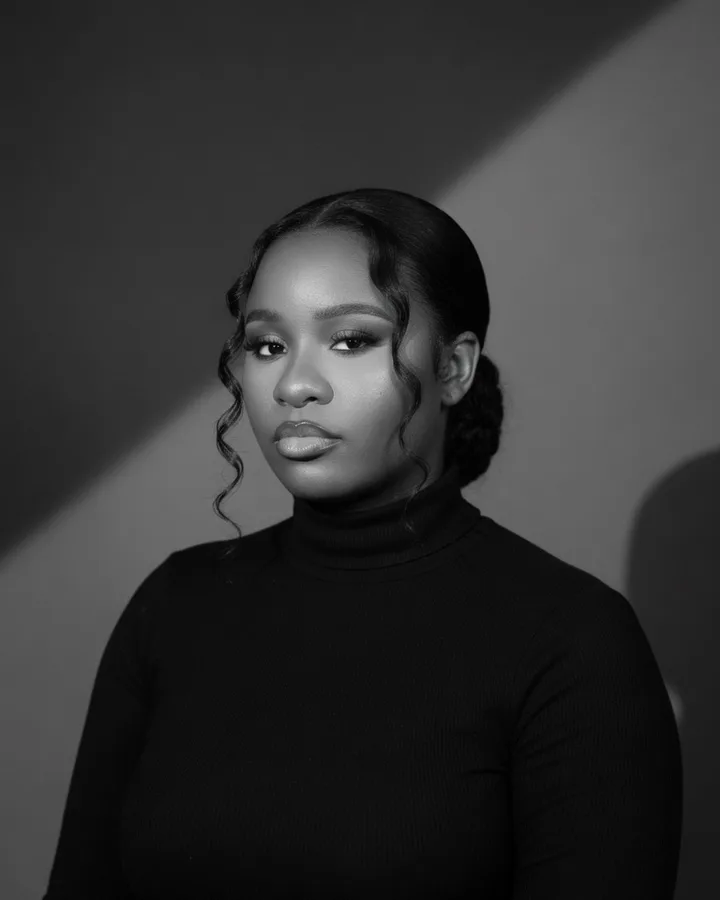
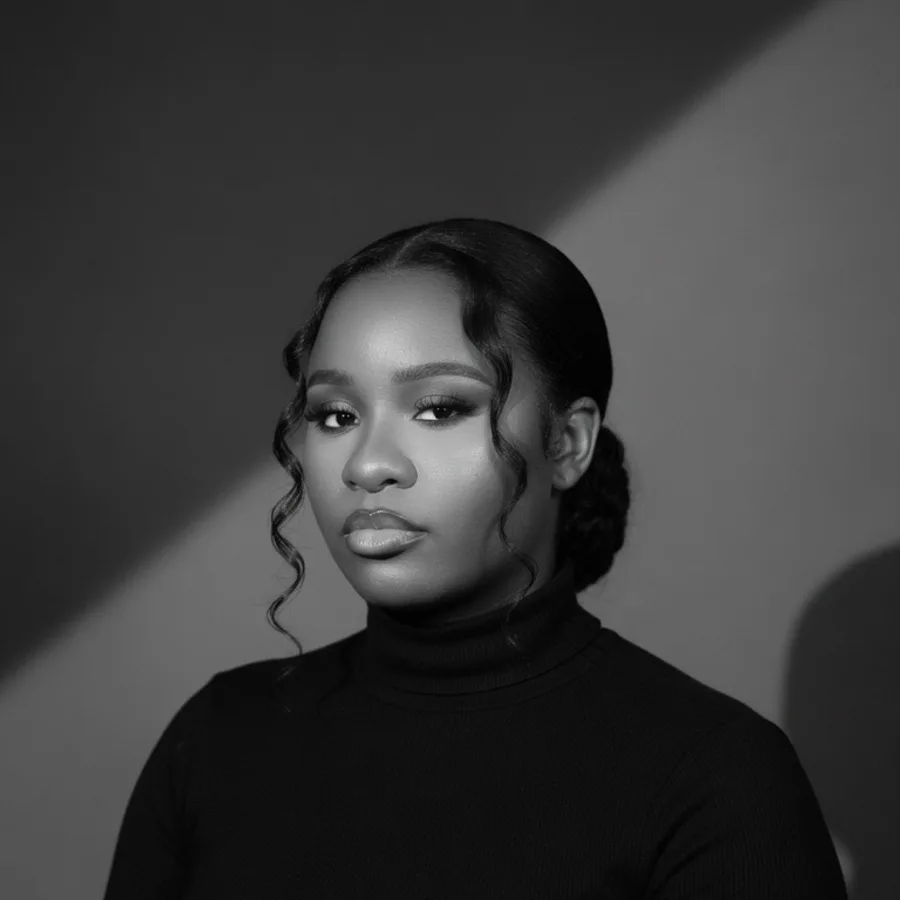
Redesign the About page around the team's photographs
Hero: the headline beside the four portraits in a staggered grid with
rounded, uneven corners and a name on each; each links to its profile.
The page's facts sit across the banner's lower edge.

Team: each person gets a card with a square portrait carrying their role
(and a Co-founder tag), their story beside it, and a pill row to jump
between profiles. The portrait stays in view while a longer bio is read.
Cards clip with overflow-clip so that stickiness works.

Portraits are replaced with the new black-and-white set, cropped square
(Olufunlola's to match), and Management consulting is added to Oriyomi's
background and expertise.

Changed region(s): [[0.0, 0.1244, 1.0, 1.0]]

diff --git a/src/app/(site)/about/page.tsx b/src/app/(site)/about/page.tsx
@@ -13,7 +13,6 @@ import {
   Users,
   type LucideIcon,
 } from "lucide-react";
-import { PageBanner } from "@/components/page-banner";
 import { topStates, totalCount } from "@/lib/schools";
 import { TEAM, type Person } from "@/lib/team";
 import { SITE_URL, absoluteUrl } from "@/lib/site";
@@ -46,8 +45,6 @@ const ADVOCACY = [
 
 export default async function AboutPage() {
   const [total, states] = await Promise.all([totalCount(), topStates(40)]);
-  const founders = TEAM.filter((p) => p.group === "co-founder");
-  const leadership = TEAM.filter((p) => p.group === "leadership");
 
   /*
    * The team and the organisation, described to search engines. Every field is
@@ -81,33 +78,76 @@ export default async function AboutPage() {
     <>
       <script type="application/ld+json" dangerouslySetInnerHTML={{ __html: JSON.stringify(jsonLd) }} />
 
-      <PageBanner
-        title={
-          <>
-            Making education easier
-            <br className="hidden sm:block" /> to see, choose and improve
-          </>
-        }
-        standfirst="Eduplana began in 2017 as a civic tech organisation that turned education data into public pressure for change. Today we are building a platform for the people who shape a child's education: parents, schools, teachers and the organisations that support them."
-      >
-        <a
-          href="#team"
-          className="inline-flex items-center gap-2 rounded-full bg-white px-6 py-3.5 text-sm font-bold text-brand-900 transition-colors hover:bg-brand-100"
-        >
-          Meet the team
-          <ArrowRight size={16} strokeWidth={2.5} aria-hidden />
-        </a>
-        <Link
-          href="/schools"
-          className="inline-flex items-center rounded-full border border-white/25 px-6 py-3.5 text-sm font-semibold text-white transition-colors hover:bg-white/10"
-        >
-          Explore Schoolsbase
-        </Link>
-      </PageBanner>
+      {/* Hero: the headline, and the four people behind it. */}
+      <section className="relative isolate overflow-hidden banner-brand banner-grid">
+        <div
+          aria-hidden
+          className="absolute -right-32 -top-24 -z-10 size-[560px] rounded-full bg-brand-400/25 blur-3xl"
+        />
+        <div className="mx-auto grid max-w-6xl items-center gap-12 px-4 pb-28 pt-14 sm:px-6 sm:pb-32 sm:pt-20 lg:grid-cols-[minmax(0,1.05fr)_minmax(0,0.95fr)] lg:gap-14">
+          <div>
+            <h1 className="font-display tracking-display text-[2.1rem] leading-[1.08] text-white sm:text-[3.15rem]">
+              Making education easier to see, choose and improve
+            </h1>
+            <p className="mt-5 max-w-xl text-[17px] leading-relaxed text-white/75">
+              Eduplana began in 2017 as a civic tech organisation that turned education data into
+              public pressure for change. Today we are building a platform for the people who shape
+              a child&rsquo;s education: parents, schools, teachers and the organisations that
+              support them.
+            </p>
+            <div className="mt-9 flex flex-wrap gap-3">
+              <a
+                href="#team"
+                className="inline-flex items-center gap-2 rounded-full bg-white px-6 py-3.5 text-sm font-bold text-brand-900 transition-colors hover:bg-brand-100"
+              >
+                Meet the team
+                <ArrowRight size={16} strokeWidth={2.5} aria-hidden />
+              </a>
+              <Link
+                href="/schools"
+                className="inline-flex items-center rounded-full border border-white/25 px-6 py-3.5 text-sm font-semibold text-white transition-colors hover:bg-white/10"
+              >
+                Explore Schoolsbase
+              </Link>
+            </div>
+          </div>
+
+          {/* Staggered, so the four faces read as a group rather than a grid. */}
+          <ul className="mx-auto grid w-full max-w-md grid-cols-2 gap-3 sm:gap-4 lg:max-w-none">
+            {TEAM.map((p, i) => (
+              <li key={p.slug} className={i % 2 === 1 ? "mt-8 sm:mt-12" : ""}>
+                <a
+                  href={`#${p.slug}`}
+                  className={`group relative block aspect-square overflow-hidden bg-brand-900 ring-1 ring-white/15 ${
+                    i === 0 ? "rounded-[2.25rem] rounded-tl-[3.5rem]" : i === 3 ? "rounded-[2.25rem] rounded-br-[3.5rem]" : "rounded-[2.25rem]"
+                  }`}
+                >
+                  <Image
+                    src={p.photo}
+                    alt={`Portrait of ${p.name}`}
+                    fill
+                    unoptimized
+                    priority
+                    sizes="(max-width: 1024px) 220px, 280px"
+                    className="object-cover transition-transform duration-700 group-hover:scale-[1.05]"
+                  />
+                  <span
+                    aria-hidden
+                    className="absolute inset-0 bg-gradient-to-t from-brand-950/80 via-transparent to-transparent"
+                  />
+                  <span className="absolute inset-x-3 bottom-3 truncate rounded-full bg-white/15 px-3 py-1.5 text-center text-[12px] font-semibold text-white ring-1 ring-white/20 backdrop-blur-md">
+                    {p.name}
+                  </span>
+                </a>
+              </li>
+            ))}
+          </ul>
+        </div>
+      </section>
 
       {/* The numbers sit across the banner's lower edge, so the page opens on facts. */}
-      <div className="relative z-10 mx-auto -mt-9 max-w-6xl px-4 sm:-mt-11 sm:px-6">
-        <dl className="grid grid-cols-2 overflow-hidden rounded-2xl border border-ink-100 bg-white shadow-lift lg:grid-cols-4">
+      <div className="relative z-10 mx-auto -mt-12 max-w-6xl px-4 sm:-mt-14 sm:px-6">
+        <dl className="grid grid-cols-2 overflow-hidden rounded-3xl border border-ink-100 bg-white shadow-lift lg:grid-cols-4">
           {[
             { label: "Founded", value: "2017" },
             { label: "Private schools on Schoolsbase", value: total.toLocaleString() },
@@ -116,12 +156,12 @@ export default async function AboutPage() {
           ].map((stat, i) => (
             <div
               key={stat.label}
-              className={`px-6 py-5 ${i % 2 ? "border-l border-ink-100" : ""} ${
+              className={`px-6 py-6 ${i % 2 ? "border-l border-ink-100" : ""} ${
                 i >= 2 ? "border-t border-ink-100 lg:border-t-0" : ""
               } ${i === 2 ? "lg:border-l" : ""}`}
             >
               <dt className="text-[13px] font-medium text-ink-500">{stat.label}</dt>
-              <dd className="mt-1 font-display text-[1.6rem] leading-tight text-ink-950">{stat.value}</dd>
+              <dd className="mt-1 font-display text-[1.7rem] leading-tight text-ink-950">{stat.value}</dd>
             </div>
           ))}
         </dl>
@@ -138,11 +178,11 @@ export default async function AboutPage() {
               {CONNECTS.map(({ icon: Icon, label }) => (
                 <li
                   key={label}
-                  className="flex items-center gap-3 rounded-xl border border-ink-100 bg-white px-4 py-3 text-sm font-semibold text-ink-800"
+                  className="flex items-center gap-3 rounded-2xl border border-ink-100 bg-white px-4 py-3.5 text-sm font-semibold text-ink-800 transition-colors hover:border-brand-200 hover:bg-brand-50/50"
                 >
                   <span
                     aria-hidden
-                    className="grid size-9 shrink-0 place-items-center rounded-lg bg-brand-50 text-brand-700"
+                    className="grid size-9 shrink-0 place-items-center rounded-xl bg-brand-50 text-brand-700"
                   >
                     <Icon size={17} strokeWidth={2.2} />
                   </span>
@@ -235,35 +275,44 @@ export default async function AboutPage() {
       </section>
 
       {/* The team */}
-      <section id="team" className="scroll-mt-24 mx-auto max-w-6xl px-4 pt-16 sm:px-6 sm:pt-24">
-        <div className="max-w-2xl">
-          <h2 className="font-display text-[1.75rem] leading-tight text-ink-950 sm:text-[2.25rem]">
-            The people behind Eduplana
-          </h2>
-          <p className="mt-3 text-[17px] leading-relaxed text-ink-600">
-            Advocacy, engineering, strategy and communication: the four people leading the work.
-          </p>
+      <section id="team" className="scroll-mt-24 mx-auto max-w-6xl px-4 py-16 sm:px-6 sm:py-24">
+        <div className="flex flex-wrap items-end justify-between gap-6">
+          <div className="max-w-2xl">
+            <h2 className="font-display text-[1.75rem] leading-tight text-ink-950 sm:text-[2.25rem]">
+              The people behind Eduplana
+            </h2>
+            <p className="mt-3 text-[17px] leading-relaxed text-ink-600">
+              Advocacy, engineering, strategy and communication: the four people leading the work.
+            </p>
+          </div>
+          <nav aria-label="Jump to a profile">
+            <ul className="flex flex-wrap gap-2">
+              {TEAM.map((p) => (
+                <li key={p.slug}>
+                  <a
+                    href={`#${p.slug}`}
+                    className="inline-flex items-center gap-2 rounded-full border border-ink-200 bg-white py-1.5 pl-1.5 pr-4 text-sm font-semibold text-ink-800 transition-colors hover:border-brand-300 hover:bg-brand-50"
+                  >
+                    <span className="relative size-8 overflow-hidden rounded-full bg-ink-100">
+                      <Image src={p.photo} alt="" fill unoptimized sizes="32px" className="object-cover" />
+                    </span>
+                    {p.name.split(" ")[0]}
+                  </a>
+                </li>
+              ))}
+            </ul>
+          </nav>
         </div>
-        <div className="mt-14 space-y-20 sm:space-y-28">
-          {founders.map((p, i) => (
-            <Profile key={p.slug} person={p} flip={i % 2 === 1} />
+
+        <div className="mt-12 space-y-6 sm:space-y-8">
+          {TEAM.map((p) => (
+            <Profile key={p.slug} person={p} />
           ))}
         </div>
       </section>
 
-      <section className="mt-20 border-t border-ink-100 bg-ink-50/70 sm:mt-28">
-        <div className="mx-auto max-w-6xl px-4 py-16 sm:px-6 sm:py-24">
-          <h2 className="font-display text-[1.5rem] leading-tight text-ink-950 sm:text-[1.9rem]">Leadership</h2>
-          <div className="mt-12 space-y-20 sm:space-y-28">
-            {leadership.map((p, i) => (
-              <Profile key={p.slug} person={p} flip={i % 2 === 0} />
-            ))}
-          </div>
-        </div>
-      </section>
-
       {/* Contact */}
-      <section className="mx-auto max-w-6xl px-4 py-16 sm:px-6 sm:py-24">
+      <section className="mx-auto max-w-6xl px-4 pb-16 sm:px-6 sm:pb-24">
         <div className="relative isolate overflow-hidden rounded-3xl banner-brand banner-grid">
           <div className="relative grid gap-8 p-8 sm:p-12 lg:grid-cols-[1.4fr_1fr] lg:items-center">
             <div>
@@ -298,45 +347,59 @@ export default async function AboutPage() {
 }
 
 /**
- * One person: a portrait beside their story. The portrait stays in view while
- * the longer bios scroll past it, and the profile has its own address so it can
- * be linked to directly. The first two paragraphs are always visible; the rest
- * open with a native <details>, which works without JavaScript and is readable
- * to search engines either way.
+ * One person, on a card of their own: the portrait on the left with their role
+ * across it, the story on the right. The portrait stays in view while a longer
+ * bio scrolls past it, and the profile has its own address so it can be linked
+ * to directly. The first two paragraphs are always visible; the rest open with
+ * a native <details>, which works without JavaScript and is readable to search
+ * engines either way.
+ *
+ * The card clips with overflow-clip, not overflow-hidden: hidden makes it a
+ * scroll container, and the portrait's `sticky` would then stick to the card
+ * instead of the page.
  */
-function Profile({ person, flip }: { person: Person; flip: boolean }) {
+function Profile({ person }: { person: Person }) {
   const shown = person.paragraphs.slice(0, 2);
   const more = person.paragraphs.slice(2);
 
   return (
     <article
       id={person.slug}
-      className="scroll-mt-28 grid items-start gap-8 lg:grid-cols-[minmax(0,5fr)_minmax(0,7fr)] lg:gap-16"
+      className="scroll-mt-28 overflow-clip rounded-[2rem] border border-ink-100 bg-white shadow-card lg:grid lg:grid-cols-[minmax(0,26rem)_minmax(0,1fr)]"
     >
-      <div className={`mx-auto w-full max-w-sm lg:max-w-none lg:sticky lg:top-28 ${flip ? "lg:order-2" : ""}`}>
-        <div className="relative">
-          <span aria-hidden className="absolute -inset-3 -z-10 rounded-[2rem] bg-brand-50 sm:-inset-4" />
-          <div className="relative aspect-[4/5] overflow-hidden rounded-3xl bg-ink-100 shadow-card">
-            {/* Already sized and compressed, so the optimizer has nothing to add. */}
-            <Image
-              src={person.photo}
-              alt={`Portrait of ${person.name}`}
-              fill
-              unoptimized
-              sizes="(max-width: 1024px) 384px, 460px"
-              className="object-cover"
-            />
-          </div>
+      <div className="p-3 sm:p-4 lg:p-5">
+        <div className="relative aspect-square overflow-hidden rounded-[1.5rem] bg-brand-950 lg:sticky lg:top-[88px]">
+          {/* Already sized and compressed, so the optimizer has nothing to add. */}
+          <Image
+            src={person.photo}
+            alt={`Portrait of ${person.name}`}
+            fill
+            unoptimized
+            sizes="(max-width: 1024px) 90vw, 416px"
+            className="object-cover"
+          />
+          {/* A cool blue wash at the foot: the role needs a surface to sit on. */}
+          <div
+            aria-hidden
+            className="absolute inset-x-0 bottom-0 h-1/2 bg-gradient-to-t from-brand-950/85 to-transparent"
+          />
+          {person.group === "co-founder" ? (
+            <span className="absolute left-4 top-4 rounded-full bg-white px-3 py-1 text-[12px] font-bold text-brand-800 shadow-sm">
+              Co-founder
+            </span>
+          ) : null}
+          <p className="absolute inset-x-4 bottom-4 text-[15px] font-semibold leading-snug text-white">
+            {person.role}
+          </p>
         </div>
       </div>
 
-      <div className={`min-w-0 ${flip ? "lg:order-1" : ""}`}>
-        <h3 className="font-display text-[2rem] leading-[1.1] tracking-display text-ink-950 sm:text-[2.6rem]">
+      <div className="min-w-0 p-6 sm:p-8 lg:py-10 lg:pl-4 lg:pr-12">
+        <h3 className="font-display text-[2rem] leading-[1.1] tracking-display text-ink-950 sm:text-[2.5rem]">
           {person.name}
         </h3>
-        <p className="mt-2 text-[17px] font-semibold text-brand-700">{person.role}</p>
 
-        <p className="mt-6 text-[1.15rem] leading-[1.7] text-ink-800">{shown[0]}</p>
+        <p className="mt-5 text-[1.12rem] leading-[1.7] text-ink-800">{shown[0]}</p>
         {shown.slice(1).map((para) => (
           <p key={para} className="mt-4 text-[16px] leading-[1.8] text-ink-600">
             {para}
@@ -345,7 +408,7 @@ function Profile({ person, flip }: { person: Person; flip: boolean }) {
 
         {more.length > 0 ? (
           <details className="group mt-4">
-            <summary className="inline-flex cursor-pointer list-none items-center gap-1.5 rounded-full text-sm font-bold text-brand-700 hover:text-brand-900 [&::-webkit-details-marker]:hidden">
+            <summary className="inline-flex cursor-pointer list-none items-center gap-1.5 rounded-full bg-brand-50 px-4 py-2 text-sm font-bold text-brand-800 transition-colors hover:bg-brand-100 [&::-webkit-details-marker]:hidden">
               <span className="group-open:hidden">Read the full profile</span>
               <span className="hidden group-open:inline">Show less</span>
               <ChevronDown
@@ -355,7 +418,7 @@ function Profile({ person, flip }: { person: Person; flip: boolean }) {
                 className="transition-transform group-open:rotate-180"
               />
             </summary>
-            <div className="mt-4 space-y-4">
+            <div className="mt-5 space-y-4">
               {more.map((para) => (
                 <p key={para} className="text-[16px] leading-[1.8] text-ink-600">
                   {para}
@@ -365,20 +428,22 @@ function Profile({ person, flip }: { person: Person; flip: boolean }) {
           </details>
         ) : null}
 
-        <ul className="mt-7 flex flex-wrap gap-2">
-          {person.expertise.map((e) => (
-            <li key={e} className="rounded-full bg-brand-50 px-3 py-1 text-[13px] font-semibold text-brand-800">
-              {e}
-            </li>
-          ))}
-        </ul>
+        <div className="mt-8 border-t border-ink-100 pt-6">
+          <ul className="flex flex-wrap gap-2">
+            {person.expertise.map((e) => (
+              <li key={e} className="rounded-full bg-brand-50 px-3 py-1 text-[13px] font-semibold text-brand-800">
+                {e}
+              </li>
+            ))}
+          </ul>
 
-        {person.workedWith?.length ? (
-          <p className="mt-5 text-sm leading-relaxed text-ink-500">
-            <span className="font-semibold text-ink-700">Has worked with </span>
-            {person.workedWith.join(", ")}.
-          </p>
-        ) : null}
+          {person.workedWith?.length ? (
+            <p className="mt-5 text-sm leading-relaxed text-ink-500">
+              <span className="font-semibold text-ink-700">Has worked with </span>
+              {person.workedWith.join(", ")}.
+            </p>
+          ) : null}
+        </div>
       </div>
     </article>
   );

diff --git a/src/lib/team.ts b/src/lib/team.ts
@@ -2,8 +2,8 @@
  * The people on the About page.
  *
  * Kept as data, apart from the layout, so a bio or a photograph can be changed
- * without touching the page. Portraits are 720×900 WebP in `public/team/`, cropped
- * to one shape so the four sit together.
+ * without touching the page. Portraits are 900×900 WebP in `public/team/`, cropped
+ * square so the four sit together.
  *
  * Bios are written from the ones each person supplied: tightened, put in the
  * third person throughout, and with nothing added. Pronouns appear only where
@@ -35,12 +35,12 @@ export const TEAM: Person[] = [
       "Co-founded Eduplana in 2017 as a civic tech organisation promoting accountability and transparency in Nigeria's education sector, and leads the team.",
     paragraphs: [
       "Oriyomi Ogunwale co-founded Eduplana in 2017, a civic tech organisation that promotes accountability and transparency in the education sector, and leads the team today.",
-      "Oriyomi has led Eduplana on civic projects that give citizens access to education governance and help them understand how public education works, through information gathering, civic action and campaigning for change. A champion for accountability and transparency in Nigeria's education sector, Oriyomi's background is in data processing and management, behavioural science, and project development and management.",
+      "Oriyomi has led Eduplana on civic projects that give citizens access to education governance and help them understand how public education works, through information gathering, civic action and campaigning for change. A champion for accountability and transparency in Nigeria's education sector, Oriyomi's background is in data processing and management, behavioural science, management consulting, and project development and management.",
       "Those projects include Education Financing Advocacy, Public School Needs Assessment, Education Policy Reform, Teachers' Welfare, Universities' Autonomy and States Education Funding. The major advocacy campaigns include #EducationFund, #SaveLautech, #StudentInjustice and #OutofSchoolChildren. Eduplana's education infographics have been published in newspapers, and the team partners with radio stations.",
       "Oriyomi is a member of the Open Data Team and Open Alliance in Nigeria, which work to improve openness and accountability in government.",
       "Oriyomi is a graduate of Animal Nutrition from the Federal University of Agriculture, Abeokuta (FUNAAB), where Oriyomi was a member of AIESEC Abeokuta and JCIN FUNAAB and served as the 2010 Vice-President of JCIN FUNAAB. Oriyomi is also a graduate of Non-Profit Leadership and Management from Lagos Business School.",
     ],
-    expertise: ["Data processing & management", "Behavioural science", "Project development", "Education advocacy"],
+    expertise: ["Management consulting", "Data processing & management", "Behavioural science", "Project development", "Education advocacy"],
     workedWith: ["BudgIT", "EiE Nigeria", "IBP", "Malala Fund", "OGP", "USAID SACE"],
   },
   {
